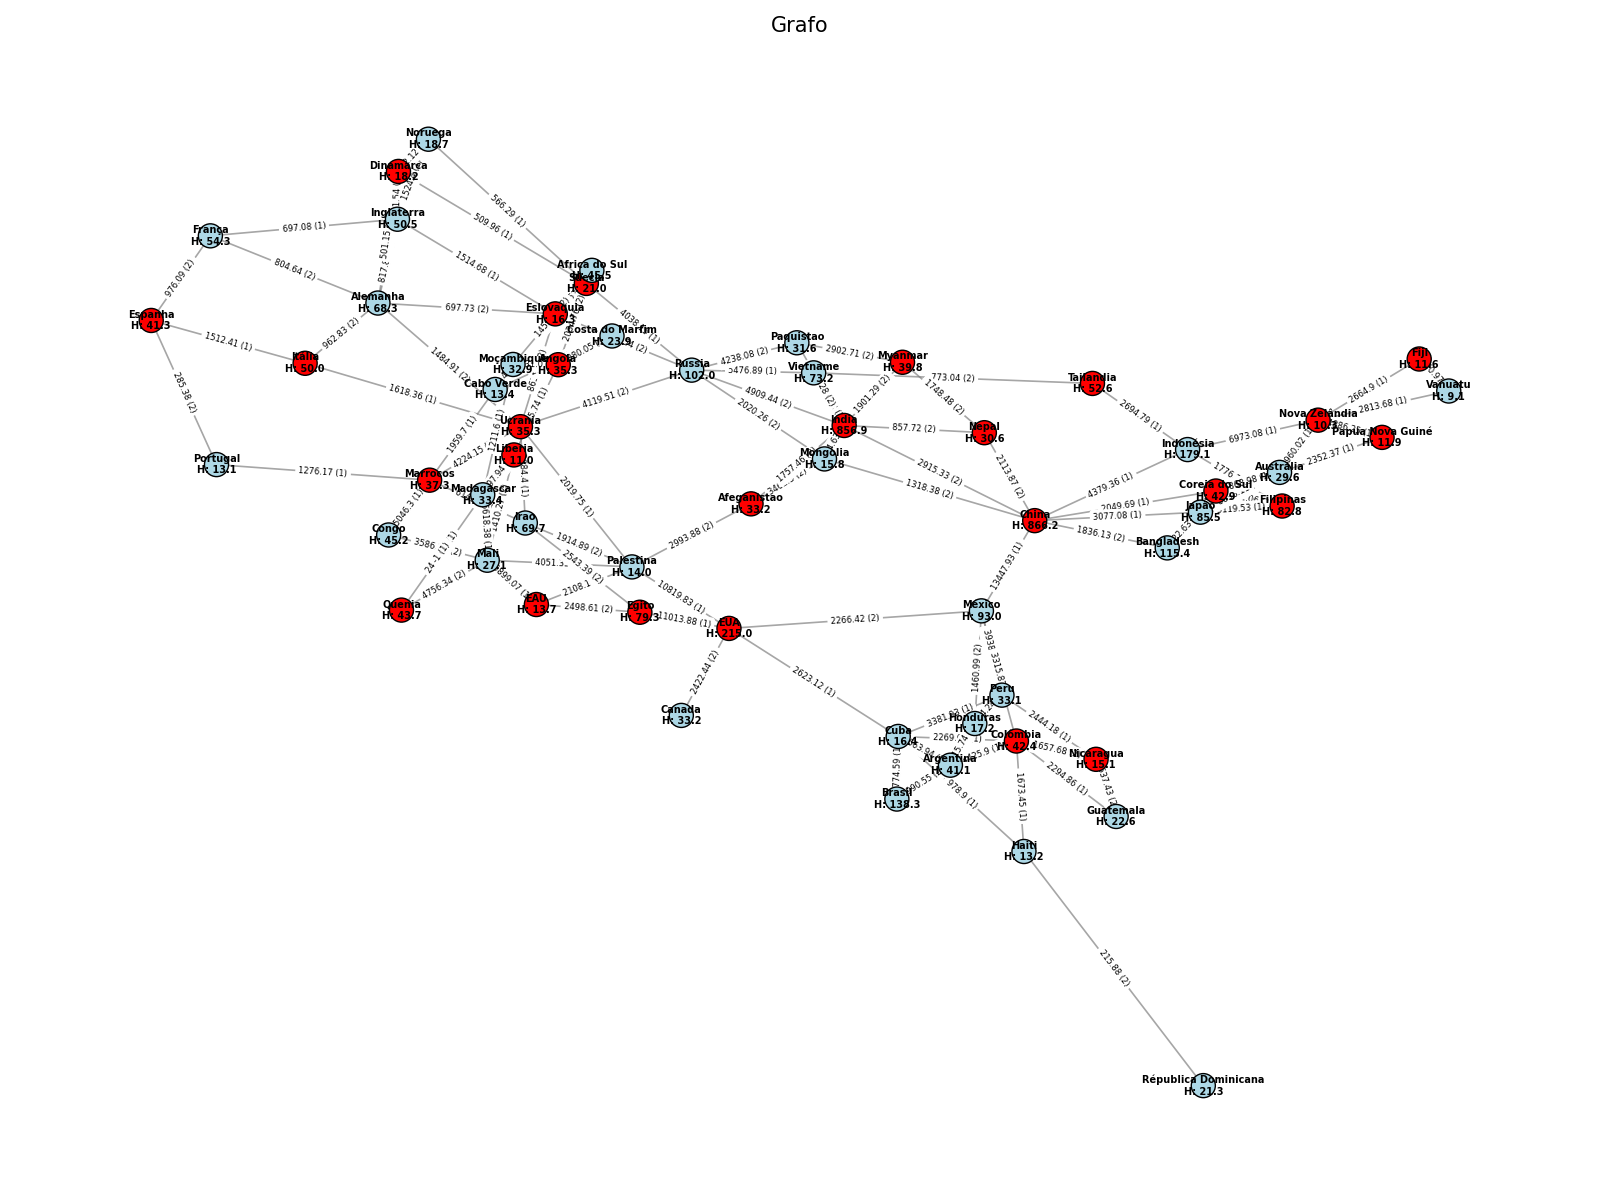
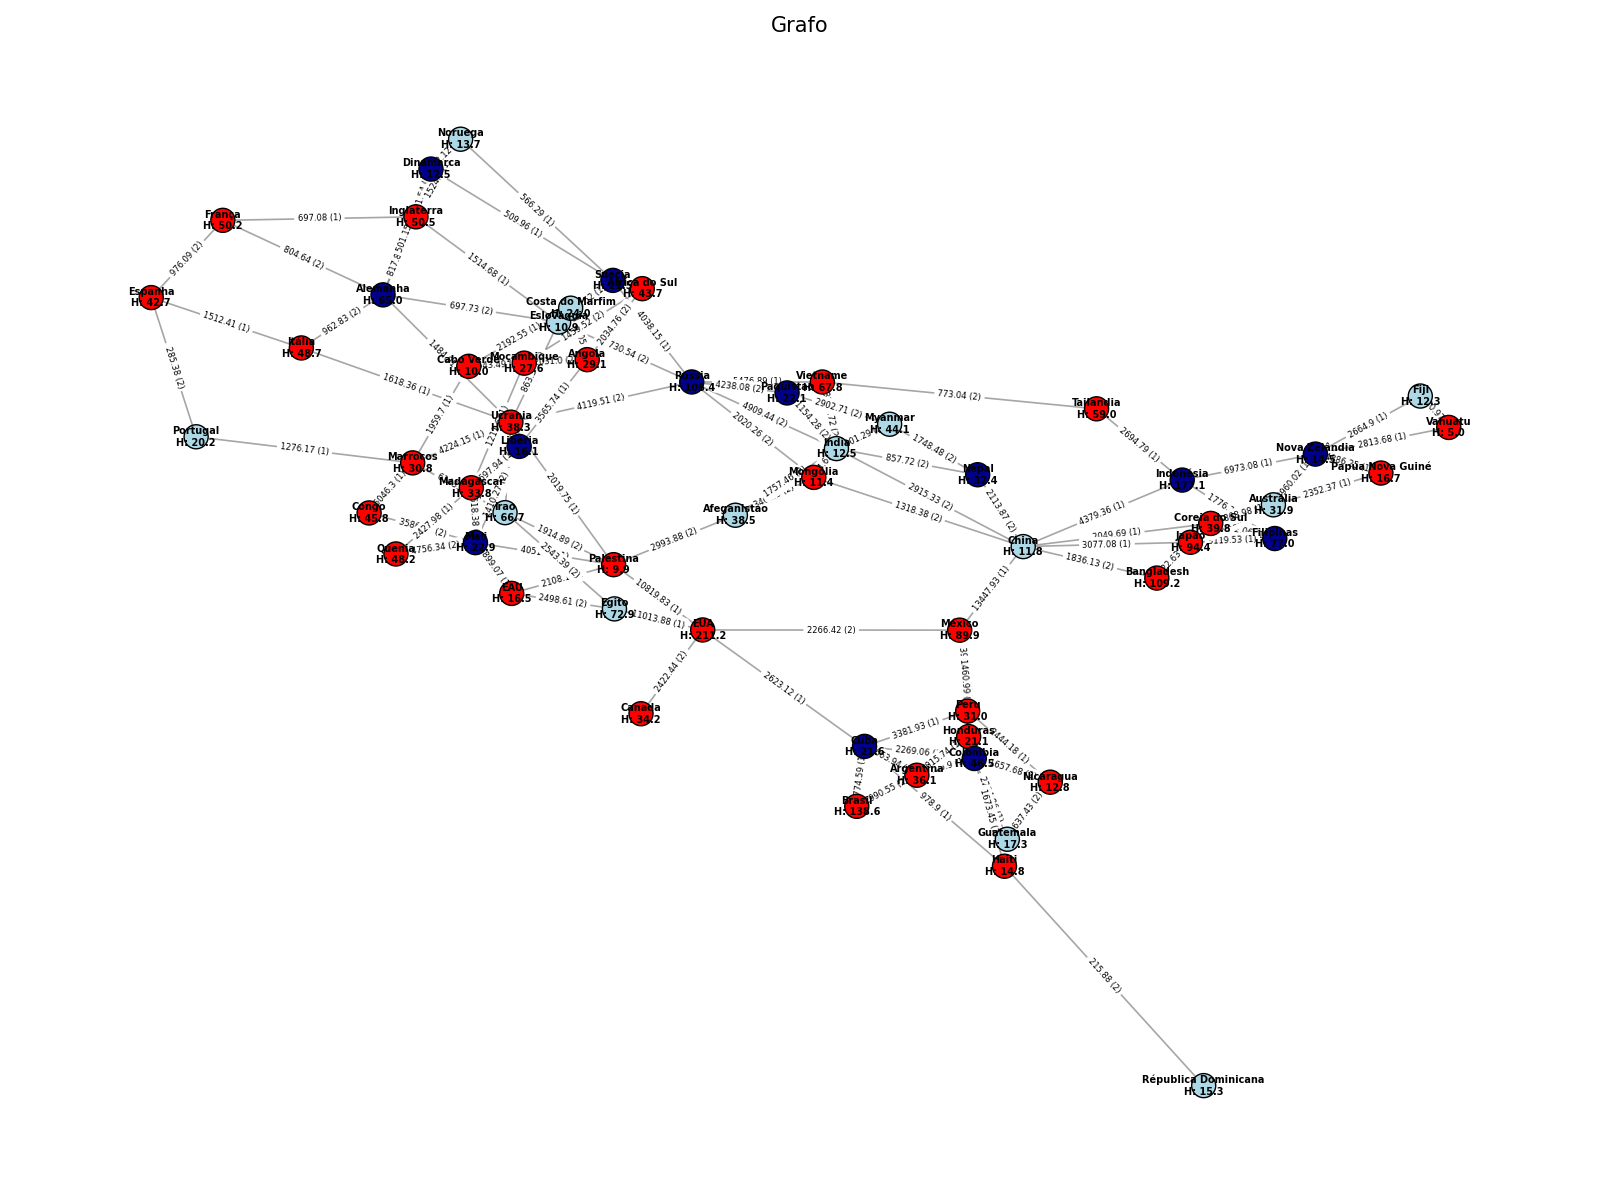
a star a bombar

diff --git a/src/Graph/graph.py b/src/Graph/graph.py
@@ -194,6 +194,9 @@ class Graph:
             supplyTypeNum = random.randint(1, 4)
             supplies = []
             afected = random.choice([True,False])
+            refuel = False
+            if not afected:
+                refuel = random.choice([True,False])
 
             if afected is True: 
                 for i in range(supplyTypeNum):
@@ -208,8 +211,9 @@ class Graph:
                     supplies.append(supply)
 
 
+
             node_id = len(self.nodes)
-            node = Node(node_id, area, supplies, afected)
+            node = Node(node_id, area, supplies, afected, refuel)
             self.nodes.append(node)
             self.graph[country] = []
 
@@ -236,11 +240,14 @@ class Graph:
         for nodo in lista_v:
             n = nodo.getName()
             afected = nodo.getAffected()
+            refuel = nodo.getRefuel()
             heuristic = round(nodo.getHeuristic(), 1)  
             g.add_node(n)
 
             # Usar um dicionário para mapear o nó para sua cor
             color_map[n] = 'red' if afected else 'lightblue'  
+            if refuel is True:
+                color_map[n] = 'darkblue'
             node_labels[n] = f"{n}\nH: {heuristic}"
 
             # Iterar sobre os adjacentes de cada nodo
@@ -311,7 +318,8 @@ class Graph:
         if start == end:
             custoT = self.calculate_cost(path)
             area = self.get_node_by_name(end)
-            vehicle.updateVehicle(distance,needs, True)
+            refuel = area.getRefuel()
+            vehicle.updateVehicle(distance,needs, True, refuel)
             self.finish_travel(end)
             return path, custoT
 
@@ -324,8 +332,9 @@ class Graph:
                 )
                 time = vehicle.calculateTravelTime(distance)
 
+                refuel = self.get_node_by_name(adjacente).getRefuel()
                 self.update_grafo(time)
-                if vehicle.updateVehicle(distance,needs,False) is False:
+                if vehicle.updateVehicle(distance,needs,False, refuel) is False:
                     break
 
                 area = self.get_node_by_name(adjacente).getArea()
@@ -358,7 +367,8 @@ class Graph:
             if nodo_atual == end:
                 path_found = True
                 area = self.get_node_by_name(end)
-                vehicle.updateVehicle(distance,needs, True)
+                refuel = area.getRefuel()
+                vehicle.updateVehicle(distance,needs, True, refuel)
                 self.finish_travel(end)
             else: 
                 for (adjacente,peso) in self.graph[nodo_atual]:
@@ -371,6 +381,8 @@ class Graph:
                             self.get_node_by_name(adjacente).getLatitude(), self.get_node_by_name(adjacente).getLongitude()
                         )
                         time = vehicle.calculateTravelTime(distance)
+                        refuel = self.get_node_by_name(adjacente).getRefuel()
+                        self.update_grafo(time)
                         if vehicle.updateVehicle(distance,needs,False) is False:
                             break
                         self.update_grafo(time)
@@ -388,9 +400,9 @@ class Graph:
         return (path,custoT)
 
 
-    def getNeighbours(graph, nodo):
+    def getNeighbours(self, nodo):
         lista = []
-        for (adjacente, peso) in graph.graph[nodo]:
+        for (adjacente, peso) in self.graph[nodo]:
             lista.append((adjacente, peso))
         return lista
     
@@ -421,7 +433,8 @@ class Graph:
             if current_node == end:
                 path = self.reconstruct_path(visited, start, end)
                 area = self.get_node_by_name(end)
-                vehicle.updateVehicle(distance,needs, True)
+                refuel = area.getRefuel()
+                vehicle.updateVehicle(distance,needs, True, refuel)
                 self.finish_travel(end)
                 return path, current_cost
 
@@ -439,7 +452,9 @@ class Graph:
                         self.get_node_by_name(neighbor).getLatitude(), self.get_node_by_name(neighbor).getLongitude()
                     )
                     time = vehicle.calculateTravelTime(distance)
-                    if vehicle.updateVehicle(distance,needs,False) is False:
+                    refuel = self.get_node_by_name(neighbor).getRefuel()
+                    self.update_grafo(time)
+                    if vehicle.updateVehicle(distance,needs,False, refuel) is False:
                         break
                     self.update_grafo(time)
 
@@ -481,7 +496,8 @@ class Graph:
                 reconst_path.append(start)
                 reconst_path.reverse()
                 area = self.get_node_by_name(end)
-                vehicle.updateVehicle(distance,needs, True)
+                refuel = area.getRefuel()
+                vehicle.updateVehicle(distance,needs, True, refuel)
                 self.finish_travel(end)
                 return (reconst_path, self.calculate_cost(reconst_path))
 
@@ -494,7 +510,8 @@ class Graph:
                         self.get_node_by_name(m).getLatitude(), self.get_node_by_name(m).getLongitude()
                     )
                     time = vehicle.calculateTravelTime(distance)
-                    if vehicle.updateVehicle(distance,needs,False) is False:
+                    refuel = self.get_node_by_name(m).getRefuel()
+                    if vehicle.updateVehicle(distance,needs,False, refuel) is False:
                         break
                     self.update_grafo(time)
 
@@ -504,69 +521,60 @@ class Graph:
         return [], float('inf')
 
     def procura_aStar(self, start, end, vehicle: Vehicle):
-        open_list = {start}
-        closed_list = set([])
+        open_list = {start} 
+        closed_list = set() 
 
-        g = {}
-        g[start] = 0
+        g = {start: 0}
 
-        parents = {}
-        parents[start] = start
+        parents = {start: None}
 
-        minimum = 0
         distance = 0
         needs = self.get_node_by_name(end).getNeeds()
 
-        for need in needs:
-            minimum += need.getSupplyWeightLoad()
+        h_start = self.get_node_by_name(start).getHeuristic()
 
-        while len(open_list) > 0:
-            n = None
-
-            for v in open_list:
-                node = self.get_node_by_name(v)
-                if n is None or g[v] + node.getHeuristic() < g[n] + node.getHeuristic():
-                    n = v
-
-            if n is None:
-                print('Path does not exist!')
-                return None
+        while open_list:
+            n = min(open_list, key=lambda node: g[node] + self.get_node_by_name(node).getHeuristic())
 
             if n == end:
-                reconst_path = []
-                while parents[n] != n:
-                    reconst_path.append(n)
+                path = []
+                while n:
+                    path.append(n)
                     n = parents[n]
-                reconst_path.append(start)
-                reconst_path.reverse()
-                area = self.get_node_by_name(end)
-                vehicle.updateVehicle(distance,needs, True)
-                self.finish_travel(end)
-                return (reconst_path, self.calculate_cost(reconst_path))
+                path.reverse()
 
-            for (m, weight) in self.getNeighbours(n):
-                if m not in open_list and m not in closed_list and self.compatibleConection(n, m, vehicle) and weight != -1:
-                    open_list.add(m)
+                refuel = self.get_node_by_name(end).getRefuel()
+                vehicle.updateVehicle(distance, needs, True, refuel)
+                self.finish_travel(end)
+                return path, self.calculate_cost(path)
+
+            open_list.remove(n)
+            closed_list.add(n)
+
+            for m, weight in self.getNeighbours(n):
+                if not self.compatibleConection(n, m, vehicle) or weight == -1:
+                    continue
+
+                g_new = g[n] + weight
+
+                if m in closed_list and g_new >= g.get(m, float('inf')):
+                    continue
+
+                if m not in open_list or g_new < g.get(m, float('inf')):
+                    g[m] = g_new
                     parents[m] = n
-                    g[m] = g[n] + weight
+
                     distance = self.calculate_distance(
                         self.get_node_by_name(start).getLatitude(), self.get_node_by_name(start).getLongitude(),
                         self.get_node_by_name(m).getLatitude(), self.get_node_by_name(m).getLongitude()
                     )
                     time = vehicle.calculateTravelTime(distance)
-                    if vehicle.updateVehicle(distance,needs,False) is False:
-                        break
+                    refuel = self.get_node_by_name(m).getRefuel()
+                    if not vehicle.updateVehicle(distance, needs, False, refuel):
+                        continue  
+
                     self.update_grafo(time)
-                else:
-                    if g[m] > g[n] + weight:
-                        g[m] = g[n] + weight
-                        parents[m] = n
 
-                        if m in closed_list:
-                            closed_list.remove(m)
-                            open_list.add(m)
-
-            open_list.remove(n)
-            closed_list.add(n)
+                    open_list.add(m)
 
         return [], float('inf')

diff --git a/src/Types/veicule.py b/src/Types/veicule.py
@@ -10,6 +10,7 @@ class Vehicle:
         self.currentLoad: float = 0  # Current capacity occupied
 
         self.autonomy: float = autonomy  # Autonomy in Km
+        self.initialAutonomy = autonomy
         self.distanceCovered: float = 0.0  # Distance covered in the current travel
         self.averageConsumption: float = averageConsumption  # Average consumption in ideal conditions
 
@@ -63,7 +64,7 @@ class Vehicle:
         return self.travelTime
     
     
-    def updateVehicle(self, distanceCovered: float, needs, forSupply: bool) -> bool: # return false if autonomy reaches 0 of if the CurrentLoad exceeds the maxCapacity
+    def updateVehicle(self, distanceCovered: float, needs, forSupply: bool, refuel) -> bool: # return false if autonomy reaches 0 of if the CurrentLoad exceeds the maxCapacity
         # Calculate load influence (weightLoad)
         weightLoad: float = self.currentLoad / self.maxCapacity
         if weightLoad > 1:
@@ -72,6 +73,9 @@ class Vehicle:
         # Calculate fuel consumption
         consumption: float = self.averageConsumption * (1 + weightLoad) * distanceCovered  # FACTOR RECEIVED SUPERIOR THEN 1 IS NICE CONDITIONS
         effectiveAutonomy = self.getAutonomy()
+
+        if refuel is True: 
+            self.autonomy = self.initialAutonomy
 
         # Check if the vehicle can complete the travel
         if effectiveAutonomy < consumption:

diff --git a/src/Algorithms/algs_handler.py b/src/Algorithms/algs_handler.py
@@ -38,7 +38,8 @@ def search(g: Graph, base, vehicles):
             #path_aux, custo = g.procura_DFS(start, goal, path=[], visited=set(), vehicle=v)
             #path_aux, custo = g.procura_BFS(start, goal, vehicle=v)
             #path_aux, custo = g.procura_custo_uniforme(start, goal, vehicle=v)
-            path_aux, custo = g.greedy(start, goal, vehicle=v)
+            #path_aux, custo = g.greedy(start, goal, vehicle=v)
+            path_aux, custo = g.procura_aStar(start, goal, vehicle=v)
             print(path_aux)
             if path_aux:
                 destinos_por_veiculo[v] += 1

diff --git a/src/Graph/node.py b/src/Graph/node.py
@@ -3,13 +3,17 @@ from Types.area import Area
 from Types.veicule import Vehicle
 
 class Node: 
-    def __init__(self, id, area: Area, needs, afected):
+    def __init__(self, id, area: Area, needs, afected, refuel):
         self.id = id
         self.name = str(area.getAreaName())
         self.area = area
         self.needs = needs
         self.afected = afected
-    
+        self.refuel = refuel
+
+    def getRefuel(self):
+        return self.refuel
+
     def setAffected(self, affected):
         self.afected = affected
 
